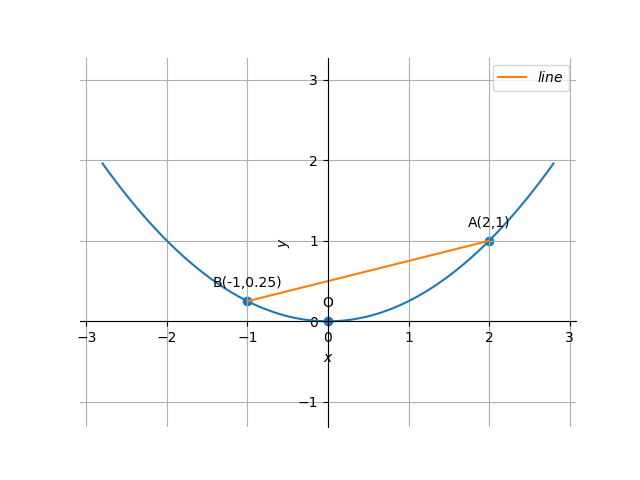
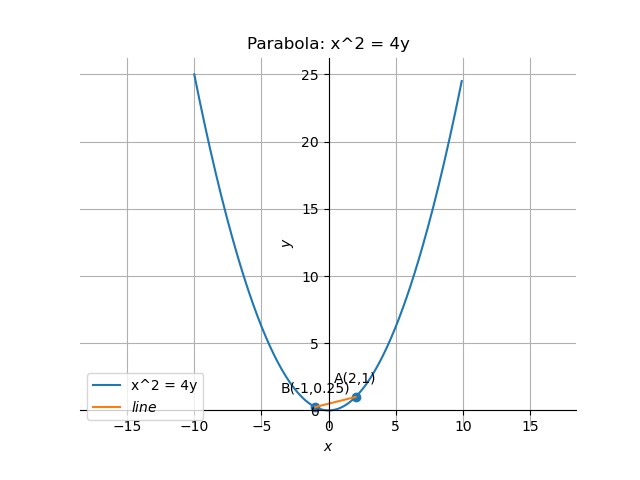
edit

diff --git a/assignment-5/codes/plot.py b/assignment-5/codes/plot.py
@@ -11,55 +11,24 @@ from trianglefuncs import *
 import params
 A = np.array([2,1])
 B = np.array([-1, 0.25])
-def affine_transform(P,c,x):
-    return P@x + c
+import matplotlib.pyplot as plt
 
-I =  np.eye(2)
-e1 =  I[:,0]
-#Input parameters
+# Initialize lists for x and y coordinates
+x_vals = []
+y_vals = []
 
+# Read points from the file
+with open("parabola_points.txt", "r") as file:
+    for line in file:
+        x, y = map(float, line.split())
+        x_vals.append(x)
+        y_vals.append(y)
 
-
-#circle parameters
-V = np.array(([1,0],[0,0]))
-u = np.array(([0,-2]))
-f = 0
-
-#for parabola
-lamda,P = LA.eigh(V)
-if(lamda[1] == 0):  # If eigen value negative, present at start of lamda
-    lamda = np.flip(lamda) # e value
-    P = np.flip(P,axis=1)   #e vectors in col
-
-#
-eta = u@P[:,0]
-a = np.vstack((u.T + eta*P[:,0].T, V))
-b = np.hstack((-f, eta*P[:,0]-u))
-center = LA.lstsq(a,b,rcond=None)[0]
-O = np.array([0,0])
-n = np.sqrt(lamda[1])*P[:,0]
-c = 0.5*(LA.norm(u)**2 - lamda[1]*f)/(u.T@n)
-F = np.array(([0,0.7]))
-fl = LA.norm(F)
-
-#pmeters to generate parabola
-num_points = 1700
-delta = 20*np.abs(fl)/10
-p_y = np.linspace(-2*np.abs(fl)-delta,2*np.abs(fl)+delta,num_points)
-a = -2*eta/lamda[1]   # y^2 = ax => y'Dy = (-2eta)e1'y
-
-
-##Generating all shapes
-p_x = parab_gen(p_y,a)
-p_std = np.vstack((p_x,p_y)).T
-
-
-##Affine transformation
-p = np.array([affine_transform(P,center,p_std[i,:]) for i in range(0,num_points)]).T
-plt.plot(p[0,:], p[1,:])
-
-
-
+# Plot the points
+plt.plot(x_vals, y_vals, label="x^2 = 4y")
+plt.xlabel('x')
+plt.ylabel('y')
+plt.title('Parabola: x^2 = 4y')
 #Generating  line
 x_R1 = line_gen(A,B);
 
@@ -75,9 +44,9 @@ ax.spines['bottom'].set_position('zero')
 plt.plot(x_R1[0,:],x_R1[1,:],label='$line$')
 
 #Labeling the coordinates
-tri_coords = np.vstack((A,B,O)).T
+tri_coords = np.vstack((A,B)).T
 plt.scatter(tri_coords[0,:], tri_coords[1,:])
-vert_labels = ['A(2,1)','B(-1,0.25)','O']
+vert_labels = ['A(2,1)','B(-1,0.25)']
 for i, txt in enumerate(vert_labels):
        plt.annotate(txt,      # this is the text
                  (tri_coords[0,i], tri_coords[1,i]), # this is the point to label

diff --git a/assignment-5/codes/generate_parabola.c b/assignment-5/codes/generate_parabola.c
@@ -1,0 +1,27 @@
+#include <stdio.h>
+#include <math.h>
+
+int main() {
+    FILE *file;
+    file = fopen("parabola_points.txt", "w");
+
+    if (file == NULL) {
+        printf("Error opening file!\n");
+        return 1;
+    }
+
+    // Generate points for the parabola x^2 = 4y
+    float x, y;
+    float step = 0.1;  // Step size for x
+    float x_max = 10;  // Maximum value of x (you can adjust as needed)
+
+    for (x = -x_max; x <= x_max; x += step) {
+        y = (x * x) / 4.0;
+        fprintf(file, "%f %f\n", x, y);
+    }
+
+    fclose(file);
+    printf("Points have been written to parabola_points.txt\n");
+    return 0;
+}
+
